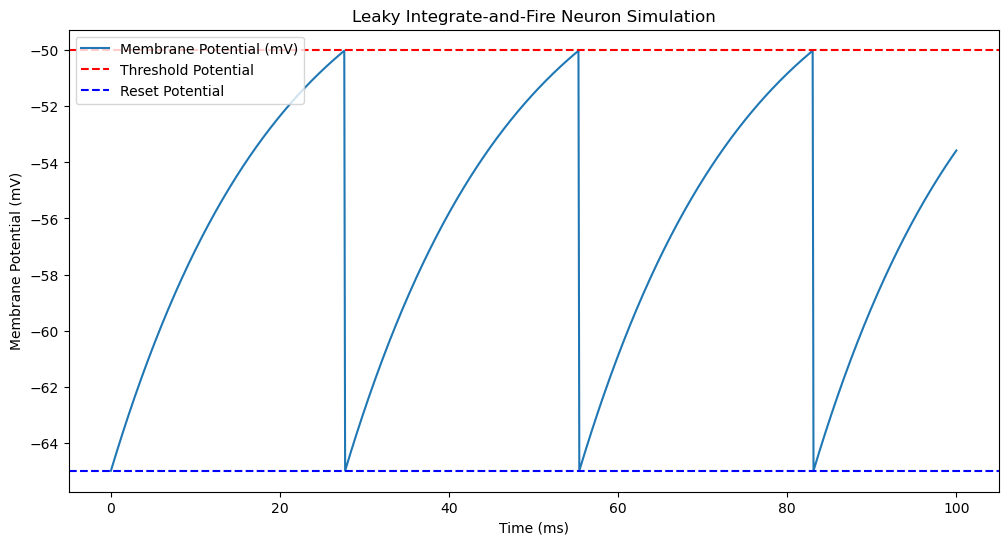
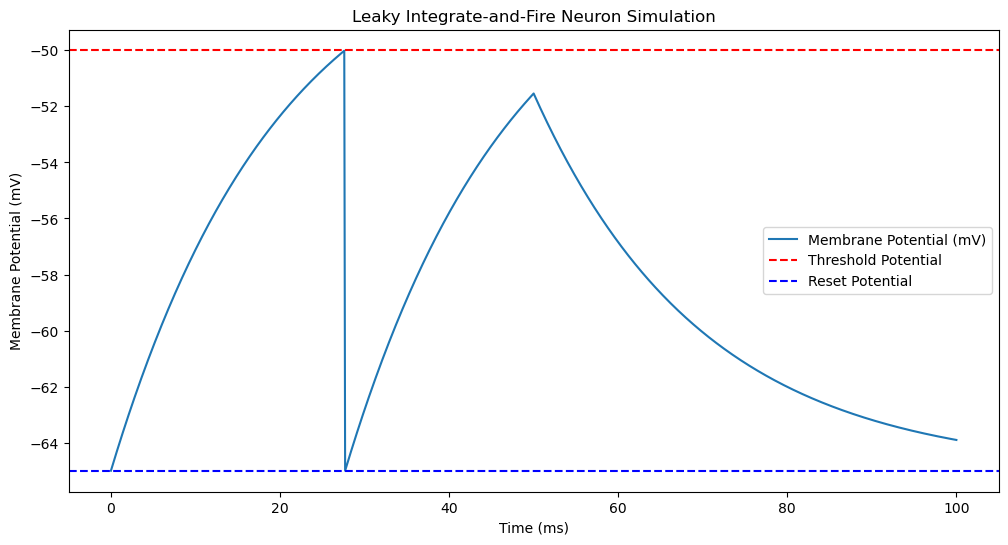
Update

diff --git a/README.md b/README.md
@@ -76,14 +76,10 @@ where:
 
 ### Key Features
 1. **Leakage Term**: The term $$- (V(t) - V_{\text{rest}})$$ represents the leakage of the membrane potential towards the resting potential Vrest. This term ensures that the membrane potential decays back to the resting potential in the absence of input current.
+![Leaky Integrate and Fire Neuron](Image/leaky_integrate_and_fire_neuron01.png)
 
 2. **Input Current**: The term RI(t) represents the input current scaled by the membrane resistance. This term drives the membrane potential towards depolarization(less negative) when there is input current.
-
-| Term             | Description                                                                                                                                                                             |
-|------------------|-----------------------------------------------------------------------------------------------------------------------------------------------------------------------------------------|
-| **Leakage Term** | The term $$- (V(t) - V_{\text{rest}})$$ represents the leakage of the membrane potential towards the resting potential $$V_{\text{rest}}$$. This term ensures that the membrane potential decays back to the resting potential in the absence of input current. |
-| **Input Current**| The term $$RI(t)$$ represents the input current scaled by the membrane resistance. This term drives the membrane potential towards depolarization (less negative) when there is input current. ![Leaky Integrate and Fire Neuron](Image/leaky_integrate_and_fire_neuron02.png) |
-
+![Leaky Integrate and Fire Neuron](Image/leaky_integrate_and_fire_neuron02.png)
 
 ### Equations in Discrete Time
 
@@ -92,12 +88,18 @@ In a discrete-time simulation, the LIF model can be approximated as:
 $$V[t + \Delta t] = V[t] + \frac{\Delta t}{\tau_m} \left( - (V[t] - V_{\text{rest}}) + R I[t] \right)$$
 
 where $\Delta t$ is the time step of the simulation.
+Example:
+tau = 20.0         # Membrane time constant (ms)
+R = 1.0            # Membrane resistance (Ohms)
+V_rest = -65.0     # Resting membrane potential (mV)
+V_th = -50.0       # Threshold potential (mV)
+V_reset = -65.0    # Reset potential after firing (mV)
+I = 20.0           # Increased input current (uA/cm^2)
+dt = 0.1           # Time step (ms)
 
-
-
-![Leaky Integrate and Fire Neuron](Image/leaky_integrate_and_fire_neuron02.png)
-<img src="Image/leaky_integrate_and_fire_neuron02.png" alt="Leaky Integrate and Fire Neuron" width="400"/>
-
+$$V[t + \Delta t] = V[t] + \frac{\Delta t}{\tau_m} \left( - (V[t] - V_{\text{rest}}) + R I[t] \right)$$
+$$V[0 + 0.1] = -65 + \frac{0.1}{20.0} \left( - ((-65) - (-65)) + 1 \times 20.0 \right)$$
+$$V[0.1] = 64.9$$
 
 ### Dynamics of the LIF Model
 1. **Integration**:
